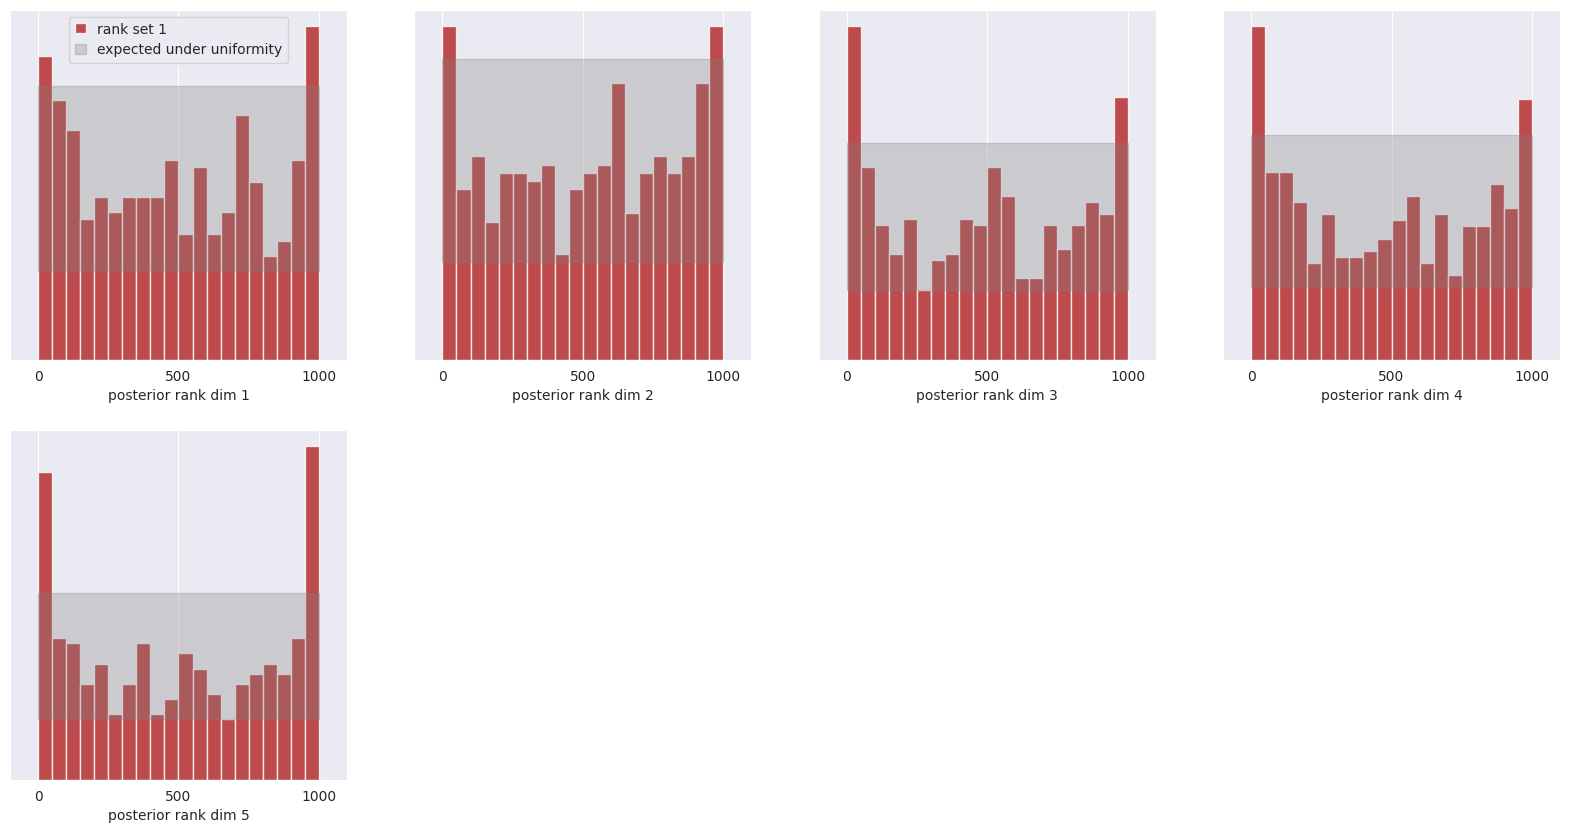
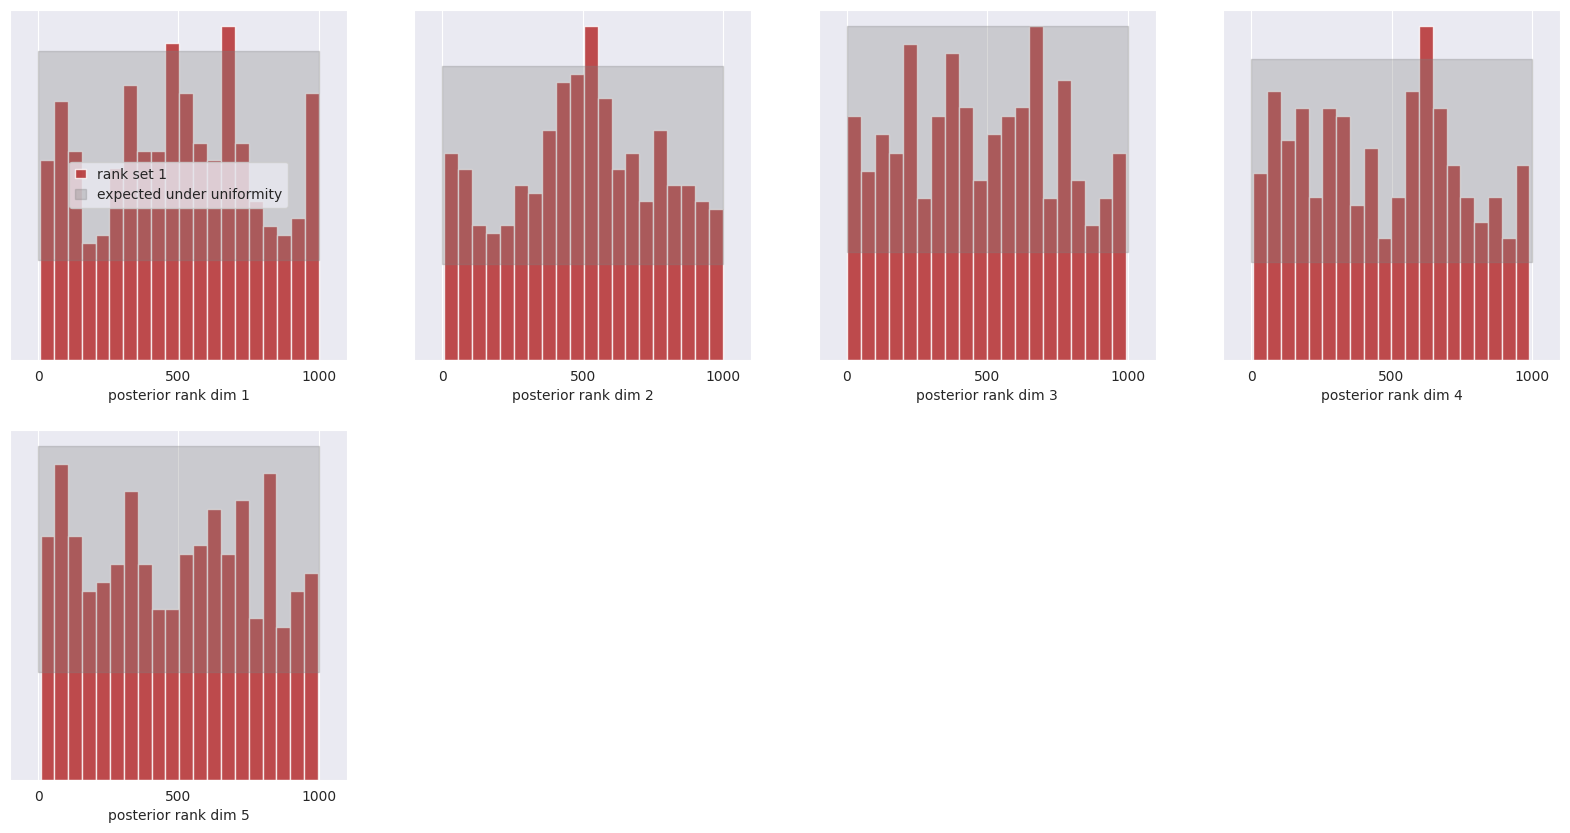
up

diff --git a/examples/sbi-benchmarks/bernoulli_glm/flow_flux/README.md b/examples/sbi-benchmarks/bernoulli_glm/flow_flux/README.md
@@ -1,7 +1,7 @@
 
-# Model Card: Flux on slcp
+# Model Card: Flux on bernoulli_glm
 
-This document provides a summary of the `flux` model trained on the `slcp` dataset.
+This document provides a summary of the `flux` model trained on the `bernoulli_glm` dataset.
 
 ## 1. Model & Pipeline
 
@@ -11,7 +11,7 @@ This document provides a summary of the `flux` model trained on the `slcp` datas
 
 ## 2. Dataset
 
-- **Dataset:** `slcp`
+- **Dataset:** `bernoulli_glm`
 - **Description:** A synthetic benchmark dataset.
 - **Training Size:** The model was trained on 100,000 (1e5) samples.
 
@@ -24,8 +24,8 @@ This document provides a summary of the `flux` model trained on the `slcp` datas
 | `context_in_dim` | `1` |
 | `mlp_ratio` | `4` |
 | `num_heads` | `4` |
-| `depth` | `4` |
-| `depth_single_blocks` | `8` |
+| `depth` | `8` |
+| `depth_single_blocks` | `16` |
 | `axes_dim` | `[10]` |
 | `qkv_bias` | `True` |
 | `theta` | `-1` |
@@ -55,7 +55,7 @@ This document provides a summary of the `flux` model trained on the `slcp` datas
 
 The model's performance is evaluated using the Classifier 2-Sample Test (C2ST). An accuracy score close to 0.5 indicates that the generated samples are highly similar to the true data distribution.
 
-- **Average C2ST Accuracy:** 0.916 ± 0.037
+- **Average C2ST Accuracy:** 0.827 ± 0.041
 
 ---
 *This model card was automatically generated.*
